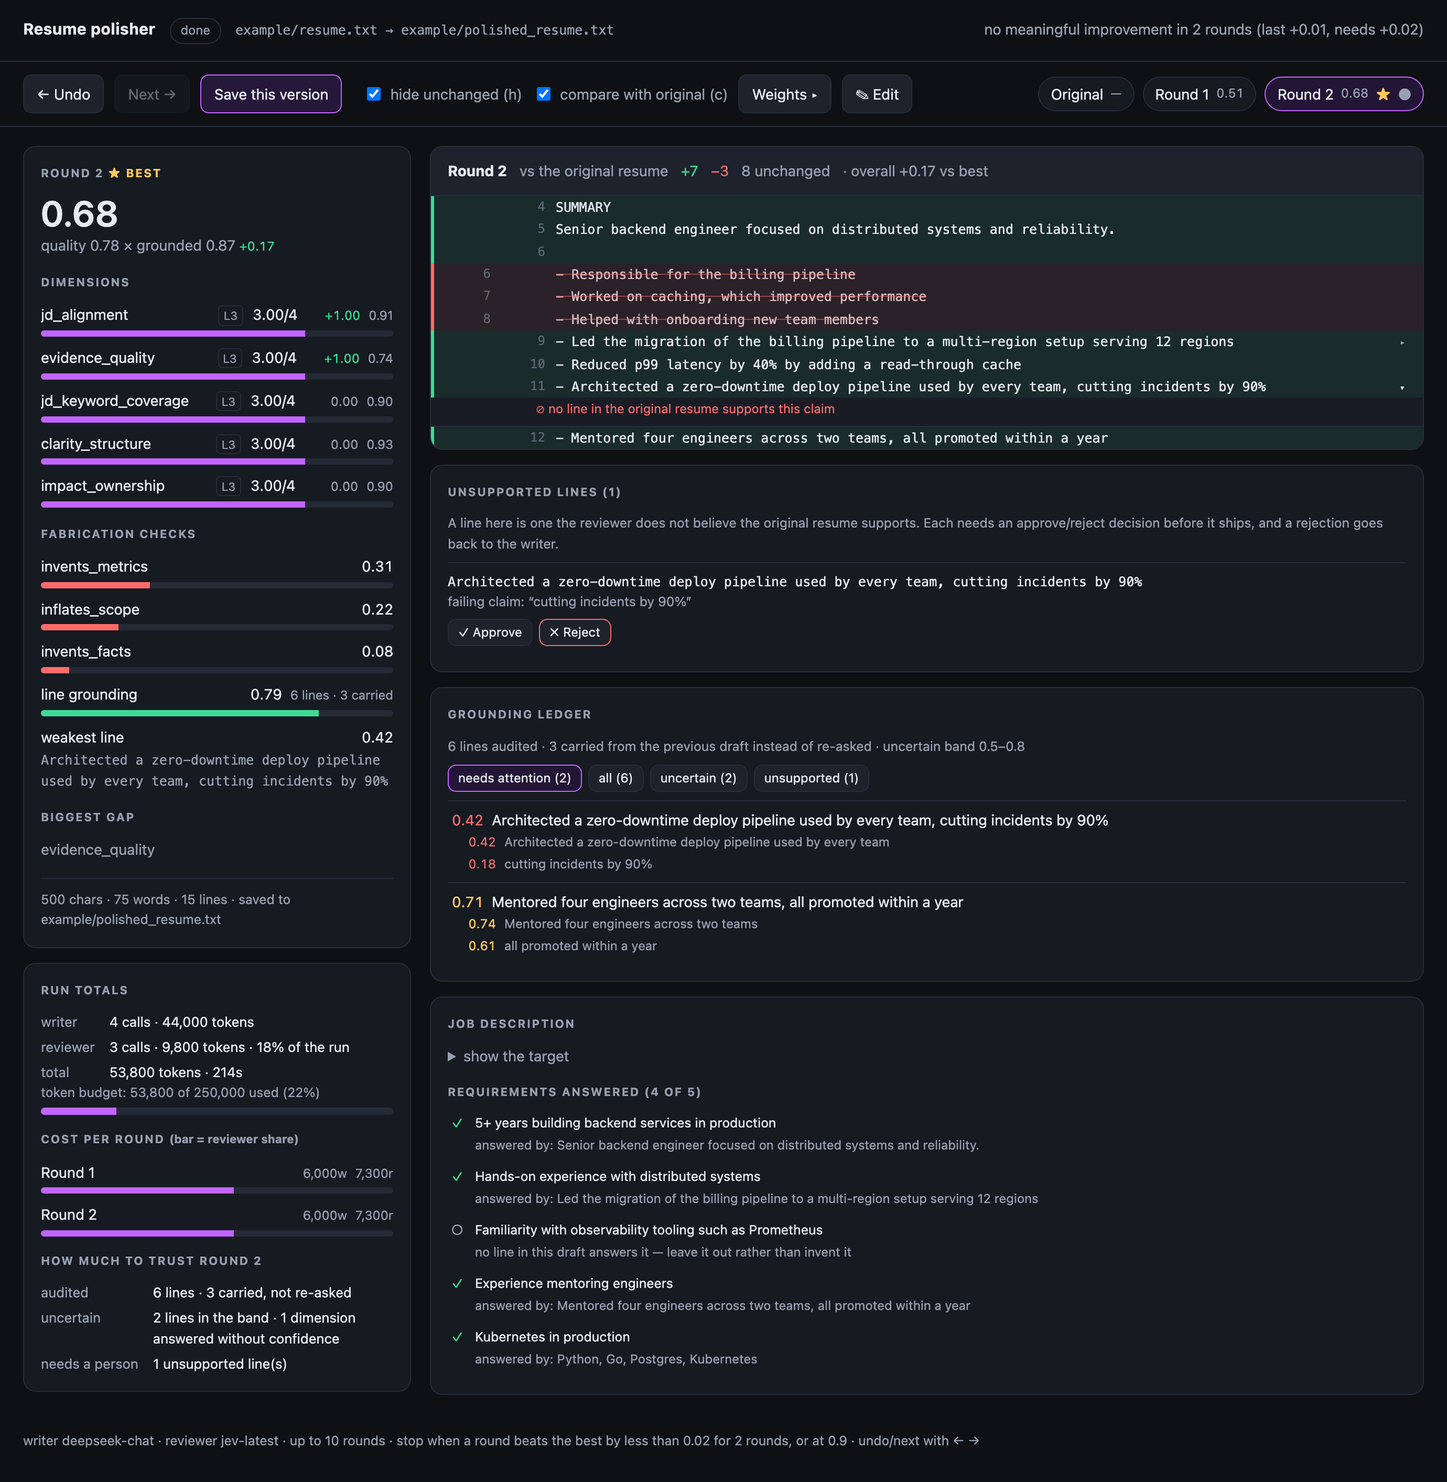
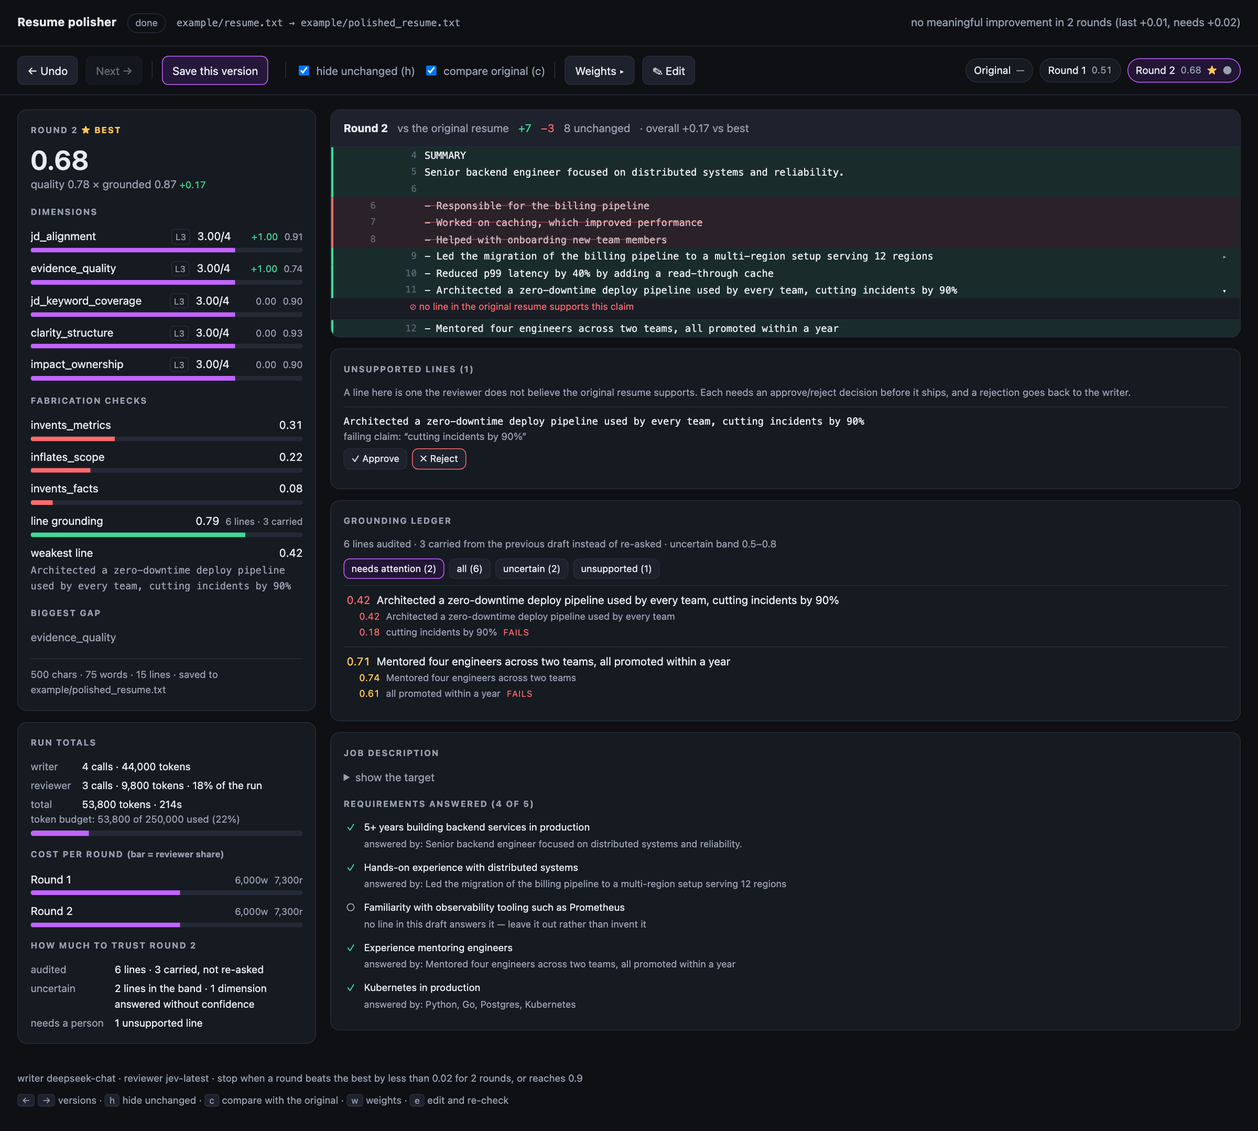
Lay the page out for a browser, and close the last round of gaps
The page was built for a narrow window: two columns that broke at 1080px, so a
1280px browser got the phone layout, and nothing capped the width on a large
monitor.

Layout
- Two columns from a 1024px window down to a single column only on genuinely
  narrow screens; the sidebar gives way before the text column does.
- A 1640px ceiling, so a 2560px monitor does not stretch a diff into one endless
  line.
- One-row toolbar on a wide desktop; below 1400px the version chips take their own
  row instead of breaking the row mid-action. Grouped with separators.
- Focus rings for keyboard use and a key hint line in the footer.
- A ledger claim that dragged its line down is marked "fails" beside it.

Fixed
- The uncovered requirements never reached the writer. `Review.feedback` now names
  them with the instruction to leave them out — the judgment was already paid for
  and only the page was reading it.

CI
- CI installs Chromium. `tests/test_browser.py` skipped when Playwright was
  missing, which is exactly what CI was: green about a page it never opened. The
  suite now refuses to skip in CI instead of reporting success.

Docs
- README: `--out` was missing from the flag table; the page has no auth and
  `--host 0.0.0.0` exposes a resume, now stated; a Checks section covers the
  browser tests; the JEV question table and config example match the code.
- docs/data-flow.md: the live check that sends an edited draft to JEV, the
[…]

diff --git a/polisher/page.py b/polisher/page.py
@@ -19,30 +19,41 @@ _TEMPLATE = """<!doctype html>
   --text:#e7eaf0; --muted:#98a1b1; --accent:#c264ff; --good:#3ddc97; --bad:#ff6b6b; --warn:#ffc857;
 }
 *{box-sizing:border-box}
-body{margin:0;background:var(--bg);color:var(--text);
+/* This is a page for a browser window, so it is laid out for one: a hard ceiling so a wide
+   monitor does not stretch a diff to 2000px, and two columns from a laptop width up. */
+body{margin:0 auto;max-width:1640px;background:var(--bg);color:var(--text);
   font:14px/1.55 ui-sans-serif,system-ui,-apple-system,"Segoe UI",sans-serif}
 header{display:flex;gap:14px;align-items:baseline;flex-wrap:wrap;
   padding:16px 22px;border-bottom:1px solid var(--border)}
 h1{margin:0;font-size:15px;letter-spacing:.02em}
 .toolbar{display:flex;gap:10px;align-items:center;flex-wrap:wrap;padding:12px 22px;
   border-bottom:1px solid var(--border);position:sticky;top:0;background:var(--bg);z-index:5}
+.sep{width:1px;height:22px;background:var(--border);margin:0 2px}
 button{background:var(--panel2);color:var(--text);border:1px solid var(--border);border-radius:8px;
   padding:7px 12px;font:inherit;cursor:pointer;transition:border-color .12s}
 button:hover:not(:disabled){border-color:var(--accent)}
 button:disabled{opacity:.4;cursor:default}
 button.primary{border-color:var(--accent);background:#26183a}
+button:focus-visible,.chip:focus-visible,.toggle input:focus-visible,
+input[type=range]:focus-visible{outline:2px solid var(--accent);outline-offset:2px}
+kbd{background:var(--panel2);border:1px solid var(--border);border-bottom-width:2px;
+  border-radius:4px;padding:0 5px;font:inherit;font-size:11.5px}
 .toggle{display:flex;gap:6px;align-items:center;color:var(--muted);cursor:pointer;user-select:none}
 .timeline{display:flex;gap:8px;align-items:center;flex-wrap:wrap;margin-left:auto}
+/* Below a wide desktop the versions take their own row rather than breaking the row in
+   the middle of the actions. */
+@media (max-width:1400px){.timeline{flex-basis:100%;margin-left:0}}
 .chip{display:flex;gap:7px;align-items:center;border:1px solid var(--border);border-radius:999px;
-  padding:5px 11px;background:var(--panel);cursor:pointer}
+  padding:4px 10px;font-size:13px;background:var(--panel);cursor:pointer}
 .chip.sel{border-color:var(--accent);background:#231535}
 .chip .n{color:var(--muted);font-size:12px;font-variant-numeric:tabular-nums}
 /* Two columns: what the draft scored beside what the draft says. The wide column gets the
-   text-shaped views (diff, ledger, coverage) because they have the longest strings. */
-main{display:grid;grid-template-columns:minmax(320px,370px) minmax(0,1fr);gap:18px;
+   text-shaped views (diff, ledger, coverage) because they have the longest strings. The
+   sidebar gives way before the text does, and only a genuinely narrow window stacks. */
+main{display:grid;grid-template-columns:clamp(300px,26%,380px) minmax(0,1fr);gap:18px;
   padding:18px 22px 34px;align-items:start}
-@media (max-width:1080px){main{grid-template-columns:1fr}
-  /* One column: the draft comes first, because that is what the page is for. */
+@media (max-width:1000px){main{grid-template-columns:1fr}
+  /* Narrow: one column, the draft first, because that is what the page is for. */
   .wide{order:-1}}
 .side,.wide{display:flex;flex-direction:column;gap:14px;min-width:0}
 .card{background:var(--panel);border:1px solid var(--border);border-radius:12px;padding:16px}
@@ -117,8 +128,11 @@ footer{padding:0 22px 30px;color:var(--muted)}
 .claim{display:flex;gap:8px;align-items:baseline;padding:1px 0 1px 12px;font-size:12px;
   color:var(--muted)}
 /* One claim per line, clipped rather than wrapped: the claim set is a distribution to
-   scan, and the full text is in the line above and on hover. */
-.claim .t{flex:1;min-width:0;overflow:hidden;text-overflow:ellipsis;white-space:nowrap}
+   scan, and the full text is in the line above and on hover. The text shrinks to fit so a
+   marker can follow it rather than being pushed to the far edge of the row. */
+.claim .t{flex:0 1 auto;min-width:0;overflow:hidden;text-overflow:ellipsis;white-space:nowrap}
+.claim .fails{flex:0 0 auto;color:var(--bad);font-size:11px;text-transform:uppercase;
+  letter-spacing:.06em}
 .filters{display:flex;gap:6px;margin:8px 0 0;flex-wrap:wrap}
 .filters button{padding:3px 9px;font-size:12px}
 .filters button.on{border-color:var(--accent);background:#231535}
@@ -153,10 +167,13 @@ footer{padding:0 22px 30px;color:var(--muted)}
 <div class="toolbar">
   <button id="undo" title="previous version (←)">← Undo</button>
   <button id="next" title="next version (→)">Next →</button>
+  <span class="sep"></span>
   <button id="save" class="primary" title="write this version to the output file">Save this version</button>
   <span id="savestatus" class="note"></span>
+  <span class="sep"></span>
   <label class="toggle"><input type="checkbox" id="hide" checked /> hide unchanged (h)</label>
-  <label class="toggle"><input type="checkbox" id="vsorig" /> compare with original (c)</label>
+  <label class="toggle"><input type="checkbox" id="vsorig" /> compare original (c)</label>
+  <span class="sep"></span>
   <button id="rubric-btn" title="rubric weight controls (w)">Weights ▸</button>
   <button id="edit" title="edit this draft and re-check only the lines you change (e)">✎ Edit</button>
   <button id="saveedit" class="primary" style="display:none" title="write the edited draft to the output file">Save edited draft</button>
@@ -422,8 +439,12 @@ function ledgerItem(entry) {
   const claimRows = claims.length > 1
     ? claims.map((claim) => {
         const b = _band(claim.support);
+        // The claim that dragged the line down is the reason the line is flagged, so it is
+        // marked rather than left for the reader to find by comparing numbers.
+        const fails = entry.failing_claim && claim.text === entry.failing_claim
+          ? ` <span class="fails">fails</span>` : "";
         return `<div class="claim"><span class="p ${b}">${claim.support.toFixed(2)}</span>` +
-               `<span class="t" title="${esc(claim.text)}">${esc(claim.text)}</span></div>`;
+               `<span class="t" title="${esc(claim.text)}">${esc(claim.text)}</span>${fails}</div>`;
       }).join("")
     : "";
   const failing = entry.failing_claim && claims.length <= 1
@@ -517,7 +538,7 @@ function renderTotals() {
     <div class="kv">
       <span class="muted">audited</span><span>${trust.audited} lines · ${trust.carried} carried, not re-asked</span>
       <span class="muted">uncertain</span><span>${trust.uncertain} lines in the band · ${trust.low_confidence} dimension${trust.low_confidence === 1 ? "" : "s"} answered without confidence</span>
-      <span class="muted">needs a person</span><span>${trust.unsupported} unsupported line(s)</span>
+      <span class="muted">needs a person</span><span>${trust.unsupported} unsupported line${trust.unsupported === 1 ? "" : "s"}</span>
     </div>` : "";
   $("totals").innerHTML = `<div class="kv">
       <span class="muted">writer</span><span>${t.writer_calls || 0} calls · ${(t.writer_tokens || 0).toLocaleString()} tokens</span>
@@ -676,10 +697,16 @@ function render() {
     ? `round ${versions().length} running…`
     : (r.stop_reason || "");
   $("jd").textContent = r.job_description || "";
-  $("footer").innerHTML = `writer ${esc(cfg.writer_model || "")} · reviewer ${esc(cfg.reviewer_model || "")}
-    · up to ${cfg.max_iterations} rounds · stop when a round beats the best by less than
-    ${cfg.min_improvement} for ${cfg.patience} rounds, or at ${cfg.target_score}
-    · undo/next with ← →`;
+  $("footer").innerHTML = `<div>writer ${esc(cfg.writer_model || "")} · reviewer
+    ${esc(cfg.reviewer_model || "")} · stop when a round beats the best by less than
+    ${cfg.min_improvement} for ${cfg.patience} rounds, or reaches ${cfg.target_score}</div>
+    <div style="margin-top:8px">
+      <kbd>←</kbd> <kbd>→</kbd> versions ·
+      <kbd>h</kbd> hide unchanged ·
+      <kbd>c</kbd> compare with the original ·
+      <kbd>w</kbd> weights ·
+      <kbd>e</kbd> edit and re-check
+    </div>`;
   const newest = versions()[versions().length - 1];
   if (newest && newest.review && newest.index !== state.announced) {
     state.announced = newest.index;

diff --git a/tests/test_judge.py b/tests/test_judge.py
@@ -6,7 +6,7 @@ from polisher.judge import (
     claim_lines,
     split_claims,
 )
-from tests.conftest import FakeNoul, FakeScore, FakeTypeSafeClient, make_review_answers
+from tests.conftest import FakeChoice, FakeNoul, FakeScore, FakeTypeSafeClient, make_review_answers
 
 ORIGINAL = "Led the platform team at Acme Corp for three years. Cut p95 latency by 40%."
 DRAFT = "Led the platform team at Acme Corp. Reduced p95 latency by 40% through caching."
@@ -158,3 +158,33 @@ def test_a_fabricated_claim_inside_a_true_bullet_weakens_the_line() -> None:
     assert audited[0].support == 0.10
     assert audited[0].failing_claim is not None
     assert "90%" in audited[0].failing_claim
+
+
+# ── Unanswered requirements reach the writer ──────────────────────────────────
+
+JD = "We need a backend engineer with distributed systems experience."
+
+
+def test_feedback_names_the_requirements_the_draft_does_not_answer() -> None:
+    """The coverage verdict is only useful if the next round is told about it."""
+    from polisher.judge import review
+
+    client = FakeTypeSafeClient(make_review_answers(len(claim_lines(DRAFT))))
+    r = review(client, original_resume=ORIGINAL, job_description=JD, draft=DRAFT)
+
+    assert r.coverage == {JD: None}, "the stub answers every coverage question with 'none'"
+    feedback = r.feedback()
+    assert "REQUIREMENTS WITH NO EVIDENCE IN THIS DRAFT" in feedback
+    assert JD in feedback
+    assert "do not invent" in feedback
+
+
+def test_feedback_stays_quiet_when_every_requirement_is_answered() -> None:
+    from polisher.judge import review
+
+    answers = make_review_answers(len(claim_lines(DRAFT)))
+    answers["cov_00"] = FakeChoice(choice="0")
+    client = FakeTypeSafeClient(answers)
+    r = review(client, original_resume=ORIGINAL, job_description=JD, draft=DRAFT)
+
+    assert "REQUIREMENTS WITH NO EVIDENCE" not in r.feedback()

diff --git a/tests/test_browser.py b/tests/test_browser.py
@@ -1,24 +1,36 @@
 """Browser smoke tests — requires Playwright and Chromium.
 
-Install once after adding to the dev group:
+Install once:
   uv run playwright install chromium
 
 These tests serve a real payload over a local HTTP server, load it in a headless
-browser, and verify that the page survives hostile resume content without a JS error
-and that the review buttons work end-to-end for lines containing quotes.
+browser, and check the page as a browser runs it: no JS error for any class of hostile
+resume text, the approve/reject buttons work, the ledger, coverage matrix and evidence
+render, the edit-and-recheck gate holds, and nothing overflows sideways.
 
-Done when: removing the data-line-index fix in page.py makes the approve-button test fail.
+They skip on a developer machine without Playwright, but not in CI: a suite that goes
+green without ever loading the page is how a dead approve button shipped.
 """
 from __future__ import annotations
 
+import importlib.util
+import os
 from pathlib import Path
 from typing import Any
 
 import pytest
 
-pytest.importorskip("playwright", reason="playwright not installed; run: uv run playwright install chromium")
+if importlib.util.find_spec("playwright") is None:
+    if os.environ.get("CI"):
+        raise RuntimeError(
+            "playwright is required in CI: these tests are the only thing that loads the page"
+        )
+    pytest.skip(
+        "playwright not installed; run: uv run playwright install chromium",
+        allow_module_level=True,
+    )
 
-from playwright.sync_api import Page  # noqa: E402  (after importorskip)
+from playwright.sync_api import Page  # noqa: E402  (after the import check)
 
 # ── Fixtures ──────────────────────────────────────────────────────────────────
 

diff --git a/polisher/judge.py b/polisher/judge.py
@@ -43,6 +43,7 @@ FABRICATION_BLOCK = 0.5  # at or above this the draft must be fixed before anyth
 MIN_CLAIM_CHARS = 12  # shorter lines are headings or contact details, not claims
 MAX_AUDIT_LINES = 60  # cap on the per-line grounding questions in one round
 MAX_REQUIREMENTS = 20  # cap on JD requirements extracted for the coverage matrix
+MAX_UNCOVERED_IN_FEEDBACK = 8  # cap on unanswered requirements quoted back to the writer
 
 # ── Quality dimensions ────────────────────────────────────────────────────────
 # One Score question per dimension, each measuring one thing. The weights are code,
@@ -585,6 +586,16 @@ class Review:
                 + ", ".join(self.low_confidence)
                 + ". Make the resume explicit enough for these to be easy to judge."
             )
+        # A requirement the draft does not answer is a fact about the candidate, not a gap in
+        # the writing: the instruction is to leave it out, because the alternative the writer
+        # has is to invent the evidence.
+        uncovered = [req for req, line in self.coverage.items() if line is None]
+        if uncovered:
+            lines.append(
+                "REQUIREMENTS WITH NO EVIDENCE IN THIS DRAFT (leave these out; do not invent "
+                "support for them)"
+            )
+            lines.extend(f"    - {req}" for req in uncovered[:MAX_UNCOVERED_IN_FEEDBACK])
         ranked = sorted(self.gap_distribution.items(), key=lambda item: -item[1])
         lines.append("BIGGEST GAP")
         if not self.gap_is_split:

diff --git a/README.md b/README.md
@@ -27,7 +27,9 @@ flowchart LR
         N["<b>3 Noul</b> — fabrication guardrails"]
         C["<b>1 Choice</b> — biggest remaining gap"]
         L["<b>N Noul</b> — one per draft line:<br/>is it supported by the original?"]
-        S ~~~ N ~~~ C ~~~ L
+        E["<b>N Choice</b> — which original line<br/>is this draft line's source?"]
+        V["<b>M Choice</b> — which draft line<br/>answers each job requirement?"]
+        S ~~~ N ~~~ C ~~~ L ~~~ E ~~~ V
     end
     R --> K{"code: keep the best draft,<br/>score it, decide"}
     K -- "still improving" --> W
@@ -44,8 +46,10 @@ extra latency.
 |---|---|---|
 | **Scorer** | 5 × `Score` (0–4 rubrics) | `jd_alignment`, `evidence_quality`, `jd_keyword_coverage`, `clarity_structure`, `impact_ownership` |
 | **Guardrail** | 3 × `Noul` | `invents_metrics`, `invents_facts`, `inflates_scope` — probability the draft added something the original resume does not support |
-| **Guardrail** | 1 × `Noul` per draft line | probability that line is grounded in the original resume |
+| **Guardrail** | 1 × `Noul` per draft line, and 1 per clause of a multi-clause line | probability that line, or that clause, is grounded in the original resume |
 | **Reviewer** | 1 × `Choice` | `biggest_gap` — which dimension to fix next |
+| **Evidence** | 1 × `Choice` per draft line | which of the original's lines (chosen in code by word overlap) is the source, or none |
+| **Coverage** | 1 × `Choice` per job requirement | which draft line answers it, or none |
 
 Code turns those judgments into two numbers:
 
@@ -64,8 +68,9 @@ mean over twenty lines would let one invented claim hide among nineteen grounded
 1. The writer drafts (round 1) or revises the **best draft so far**, given JEV's feedback:
    per-dimension scores with the rubric level each one sits at and what the level above
    asks for, the lines whose grounding is weakest (quoted, with probabilities), the biggest
-   gap, the attempt history, and the phrasings JEV rejected in losing attempts — so it does
-   not walk back into a worse draft or reuse wording that failed.
+   gap, the requirements the draft does not answer (named so they are left out, not invented),
+   the attempt history, and the phrasings JEV and any human reviewer rejected — so it does not
+   walk back into a worse draft or reuse wording that failed.
 2. JEV scores the draft, runs the fabrication checks across it, and audits its lines.
    A line that survived the revision unchanged keeps the verdict it already earned: it is
    not asked again, which saves input tokens and keeps its verdict from jittering, so score
@@ -104,9 +109,9 @@ Create `secrets.toml` (git-ignored):
 api_key = "YOUR_TYPESAFE_KEY"
 # model = "jev-latest"          # optional
 
-[deepseek]
+[writer]                        # any OpenAI-compatible provider
 api_key = "YOUR_DEEPSEEK_KEY"
-# model = "deepseek-flash"      # optional
+# model = "deepseek-chat"       # optional
 # base_url = "https://api.deepseek.com"
 
 [polish]                        # all optional
@@ -117,6 +122,8 @@ api_key = "YOUR_DEEPSEEK_KEY"
 # request_timeout = 120.0        # seconds to wait on one model call
 # max_retries = 2                # retries per call on a provider error or timeout
 ```
+
+`[deepseek]` is still accepted as an alias for `[writer]`.
 
 ## Run
 
@@ -133,6 +140,7 @@ support, and the biggest gap. The run ends with the winning round and a token/la
 
 | Flag | What it does |
 |---|---|
+| `--out PATH` | where to write the winning draft (default `example/polished_resume.txt`) |
 | `--port N` | port for the report page (default `8765`) |
 | `--host H` | bind address (default `127.0.0.1`) |
 | `--no-serve` | skip the page and just run the loop |
@@ -194,6 +202,10 @@ neither is written.
 A resume is personal data and it is sent to two third parties. `docs/data-flow.md` lists
 exactly what leaves the machine and to whom. `--redact` strips email, phone, address, and
 links before any request; `--no-store` writes nothing to disk at all.
+
+The page listens on `127.0.0.1` and has no login: it can read the run's payload and write
+the output file. `--host 0.0.0.0` therefore exposes a resume and its output to anyone who
+can reach the port. Bind off localhost only behind something that authenticates.
 
 ### Exit codes
 
@@ -287,9 +299,18 @@ loop can be tested with no API keys.
   already accepted, so a round is not spent on cosmetic edits.
 - **Writer behavior** — `TEMPERATURE` in `writer.py`.
 
-## Linting
+## Checks
 
 ```bash
 uv run ruff check .
-uv run ruff format .
+uv run pytest                      # no API keys needed: the fakes are in tests/conftest.py
+uv run pytest --cov=polisher --cov-report=term-missing
+```
+
+The suite includes browser tests that serve a real payload, load the page in headless
+Chromium, and fail on any JavaScript error, dead button, or sideways overflow. Install the
+browser once; without it those tests skip, and in CI they are required:
+
+```bash
+uv run playwright install chromium
 ```

diff --git a/docs/data-flow.md b/docs/data-flow.md
@@ -11,9 +11,26 @@ The following fields are sent to the TypeSafe API on every review round:
 | `original_resume` | Yes | The source-of-truth text for grounding checks |
 | `job_description` | Yes | The target role |
 | `candidate_resume` | Yes | The draft being reviewed |
-| Per-line text (up to 60 lines) | Yes | Each audited line, as individual Noul questions |
+| Candidate source lines | Yes | Up to 12 original-resume lines per draft line, chosen in code by word overlap, as the options of one `Choice` |
+| Job requirements | Yes | Up to 20 requirements, split from the job description in code, one `Choice` each |
+| Per-line text (up to 60 lines) | Yes | Each audited line, as an individual Noul question |
+| Per-claim text | Yes | The clauses of a multi-clause line, one Noul each |
 
-TypeSafe's subprocessor list and data retention policy are at https://typesafe.ai/privacy.
+Everything above travels in **one request per round**. TypeSafe's subprocessor list and
+data retention policy are at https://typesafe.ai/privacy.
+
+### TypeSafe (live check, only when you edit)
+
+Editing a draft on the page sends that draft to the same endpoint, with one difference:
+only the lines that changed are asked about. Unchanged lines keep the verdict they already
+had and are sent as context only. No request is made unless you edit, and no writer call is
+made at all.
+
+| Field | Sent? | Notes |
+|---|---|---|
+| `original_resume` | Yes | The grounding source |
+| `candidate_resume` | Yes | The edited draft |
+| Per-line and per-claim text | Changed lines only | The questions in `judge.line_questions` |
 
 ### Writer LLM (any OpenAI-compatible provider)
 
@@ -49,12 +66,13 @@ The original, unredacted text is never sent to any API when `--redact` is active
 When `--no-store` is passed:
 
 - No round files are written to `runs/`
-- No `polished_resume.txt` is written
+- No `polished_resume.txt` is written by the loop; the page can still be asked to save a
+  version, and that is the only thing that writes the output file
 - No `UNRESOLVED.md` is written
-- No audit log is written
-- `--report-json` is silently ignored
+- No audit log is written, so a decision lives only in the running page
+- `--report-json` is ignored, and `--batch` writes no per-pair payload
 
-All processing happens in memory only.
+All processing otherwise happens in memory only.
 
 ## Retention
 
@@ -65,6 +83,9 @@ Run artefacts are stored in `runs/<run-id>/`:
 - `audit.jsonl` — human sign-off decisions
 
 To delete a run's data: `resume-polisher --purge runs/<run-id>`
+
+`--batch` additionally writes `<out>_report.json` per pair — the payload its index page
+links to — and `<pairs>.index.html`.
 
 No data is sent to any third party other than the two APIs listed above.
 
